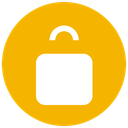
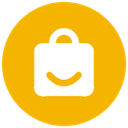
石之家：修发布页点位置闪退，筛选面板封高，发布按钮跟滑动收起，角标还原官方图形
点位置闪退
  SzjSheet 用了 fillMaxSize，而它被画在 LazyColumn 的 item 里——
  item 的高度是无界的，里面再要求填满屏幕直接抛 infinite constraint。
  职业选择层提到页面层（LazyColumn 和它同在一个 Box 里），
  SzjPublishSlotPicker 只上报"点了哪个位置"。

招募筛选面板
  高度封到 72%，选项区自己滚，重置/看结果钉在面板底部。
  原来面板从顶部无限往下长，副本那类条件最多（类型+副本+规模+位置+
  标签+大区），两个按钮被悬浮底栏盖住，点不到。

发布按钮
  跟悬浮底栏同一个信号源（SzjBarVisibility）：往下滑朝右下缩走并淡出，
  往上滑立刻回来，两者动作一致。

商城角标
  上一版我自己重画成了购物袋，形不对——官方是宽口购物篮 + 大提手弧。
  改成从 0.7.199 的原图抠出白色篮子、等比缩到圆内接正方形的 78%、
  重新居中贴回干净黄圆。图形还是官方那个，只是不再从下沿漏出去。

Changed region(s): [[0.25, 0.1875, 0.75, 0.8438], [0.3438, 0.5312, 0.6562, 0.6875]]

diff --git a/EorzeaPhoneAndroid/app/src/main/java/com/quserh/eorzeaphone/ui/ShizhijiaScreens.kt b/EorzeaPhoneAndroid/app/src/main/java/com/quserh/eorzeaphone/ui/ShizhijiaScreens.kt
@@ -1030,7 +1030,8 @@ private fun ShizhijiaHomeScreen(
                                 }
                             }
                         }
-                        MAIN_RECRUIT -> ShizhijiaRecruitTab(nav, loggedIn, recruitState, brandRow)
+                        // bar 传下去：发布按钮跟底栏一起收起/放出。
+                        MAIN_RECRUIT -> ShizhijiaRecruitTab(nav, loggedIn, recruitState, brandRow, bar)
                         MAIN_GLAMOUR -> ShizhijiaGlamourTab(nav, loggedIn, glamourState, brandRow)
                         else -> ShizhijiaMeTab(state, nav, loggedIn, loginUser, barHeightDp, barBottomDp, onBarHeightChange, onBarBottomChange, brandRow)
                     }
@@ -1973,6 +1974,8 @@ private fun ShizhijiaRecruitTab(
     loggedIn: Boolean,
     rs: SzjRecruitState,
     header: @Composable () -> Unit,
+    /** 底栏的显隐状态：发布按钮跟着它一起走。 */
+    bar: SzjBarVisibility,
 ) {
     val context = LocalContext.current
     val scope = rememberCoroutineScope()
@@ -2135,9 +2138,27 @@ private fun ShizhijiaRecruitTab(
         // 发布按钮：浮在右下、底栏之上。RP 和部队招募的发布表单没做，
         // 那两类不给入口（点了也发不出去）。
         if (kind != ShizhijiaRecruitKind.Rp && kind != ShizhijiaRecruitKind.Guild) {
+            // 往下滑收起、往上滑放出，和悬浮底栏同一个信号源，两者动作一致。
+            // 收起方向朝右下（它在右下角），比单纯淡出更像"滑走了"。
+            val motion = szjMotionEnabled()
+            val hide = bar.hidden
+            val p by animateFloatAsState(
+                if (hide) 1f else 0f,
+                if (motion) tween(if (hide) 260 else 190, easing = FastOutSlowInEasing)
+                else tween(0),
+                label = "szjFabHide",
+            )
             SzjPressable(
                 onClick = { nav(SzjRoute.PublishRecruit(kind)) },
-                modifier = Modifier.align(Alignment.BottomEnd).padding(end = 18.dp, bottom = 108.dp),
+                modifier = Modifier.align(Alignment.BottomEnd)
+                    .padding(end = 18.dp, bottom = 108.dp)
+                    .graphicsLayer {
+                        alpha = 1f - p
+                        translationX = p * 40f
+                        translationY = p * 24f
+                        scaleX = 1f - p * 0.2f
+                        scaleY = 1f - p * 0.2f
+                    },
                 shape = CircleShape,
             ) {
                 Row(
@@ -2218,24 +2239,28 @@ private fun SzjRecruitFilterPanel(
     // 面板是覆盖层：返回键先关它，别一路穿透到关掉石之家。
     BackHandler { onClose() }
 
-    Column(
+    Box(
         Modifier.fillMaxSize()
             .background(Color(0x73000000))
-            .pointerInput(Unit) { detectTapGestures { onClose() } }
+            .pointerInput(Unit) { detectTapGestures { onClose() } },
+        contentAlignment = Alignment.TopCenter,
     ) {
         androidx.compose.animation.AnimatedVisibility(
             visible = true,
             enter = slideInVertically(tween(260, easing = FastOutSlowInEasing)) { -it },
         ) {
+            // 高度封到 72%：条件多的时候（副本那类有类型+副本+规模+位置+标签+大区）
+            // 面板会一直长到屏幕外，"看结果"被悬浮底栏盖住点不到。
+            // 现在选项区自己滚，两个按钮钉在面板底部。
             Column(
-                Modifier.fillMaxWidth()
+                Modifier.fillMaxWidth().fillMaxHeight(0.72f)
                     .shadow(12.dp, RoundedCornerShape(bottomEnd = 18.dp, bottomStart = 18.dp), ambientColor = Color(0xFF0A1016), spotColor = Color(0xFF0A1016))
                     .clip(RoundedCornerShape(bottomEnd = 18.dp, bottomStart = 18.dp))
                     .background(SzjBg)
                     .clickable(interactionSource = noRipple, indication = null) { }
-                    .verticalScroll(rememberScrollState())
                     .padding(horizontal = 16.dp, vertical = 14.dp)
             ) {
+              Column(Modifier.weight(1f, fill = false).verticalScroll(rememberScrollState())) {
                 when (kind) {
                     ShizhijiaRecruitKind.Fb -> {
                         val types = rs.fbConfig.value.map { it.fbType }.distinct().filter { it.isNotBlank() }
@@ -2338,7 +2363,8 @@ private fun SzjRecruitFilterPanel(
                         selected = setOf(draft.targetAreaId),
                     ) { draft = draft.copy(targetAreaId = it) }
                 }
-                Spacer(Modifier.height(18.dp))
+              }
+                Spacer(Modifier.height(14.dp))
                 Row(Modifier.fillMaxWidth(), horizontalArrangement = Arrangement.spacedBy(10.dp)) {
                     SzjPressable(
                         onClick = { draft = ShizhijiaRecruitFilter() },
@@ -2718,6 +2744,8 @@ private fun ShizhijiaRecruitDetailScreen(
 private fun SzjPublishFbFields(
     form: ShizhijiaRecruitForm,
     rs: SzjRecruitState,
+    /** 点了位置槽：("" 或 "A"/"B"/"C" 的小队, 位置名)。选择层由页面层画。 */
+    onPickSlot: (String, String) -> Unit,
     onChange: (ShizhijiaRecruitForm) -> Unit,
 ) {
     val types = rs.fbConfig.value.map { it.fbType }.distinct().filter { it.isNotBlank() }
@@ -2755,6 +2783,7 @@ private fun SzjPublishFbFields(
             slots = form.slots,
             jobs = rs.jobs.value,
             onSet = { k, v -> onChange(form.copy(slots = form.slots + (k to v))) },
+            onPick = { k -> onPickSlot("", k) },
         )
     } else if (form.teamComposition == "团队") {
         // 24 人：三个小队各一组
@@ -2768,6 +2797,7 @@ private fun SzjPublishFbFields(
                     val cur = form.alliance[g].orEmpty()
                     onChange(form.copy(alliance = form.alliance + (g to (cur + (k to v)))))
                 },
+                onPick = { k -> onPickSlot(g, k) },
             )
         }
     }
@@ -2806,8 +2836,14 @@ private fun SzjPublishSlotPicker(
     slots: Map<String, String>,
     jobs: Map<String, ShizhijiaJob>,
     onSet: (String, String) -> Unit,
+    /**
+     * 请求打开职业选择层。选择层不能画在这里——这个 composable 在
+     * LazyColumn 的 item 里，item 的高度是无界的，里面再放 fillMaxSize
+     * 会直接抛 infinite constraint 崩掉（0.7.219 点位置闪退就是这个）。
+     * 所以由页面层统一画，这里只上报"点了哪个位置"。
+     */
+    onPick: (String) -> Unit,
 ) {
-    var picking by remember { mutableStateOf<String?>(null) }
     Column(Modifier.fillMaxWidth().padding(bottom = 14.dp)) {
         Row(verticalAlignment = Alignment.CenterVertically) {
             Text("我的位置", color = SzjText, style = SzjLabelStyle)
@@ -2820,7 +2856,7 @@ private fun SzjPublishSlotPicker(
                 val filled = jobId.isNotBlank() && jobId != "0"
                 val job = jobs[jobId]
                 SzjPressable(
-                    onClick = { if (filled) onSet(k, "0") else picking = k },
+                    onClick = { if (filled) onSet(k, "0") else onPick(k) },
                     modifier = Modifier.weight(1f),
                     shape = RoundedCornerShape(6.dp),
                 ) {
@@ -2844,43 +2880,52 @@ private fun SzjPublishSlotPicker(
             }
         }
     }
-    // 职业选择：按职能分组列出具体职业
-    val slot = picking
-    if (slot != null) {
-        val byRole = jobs.values.filter { it.type != "职能分类" }.groupBy { it.type }
-        SzjSheet(title = "$slot 位置的职业", onClose = { picking = null }) {
-            byRole.forEach { (role, list) ->
-                Text(role, color = SzjAccent, style = SzjLabelStyle, modifier = Modifier.padding(top = 6.dp, bottom = 6.dp))
-                Column(verticalArrangement = Arrangement.spacedBy(6.dp)) {
-                    list.sortedBy { it.id.toIntOrNull() ?: 0 }.chunked(4).forEach { row ->
-                        Row(Modifier.fillMaxWidth(), horizontalArrangement = Arrangement.spacedBy(6.dp)) {
-                            row.forEach { j ->
-                                SzjPressable(
-                                    onClick = { onSet(slot, j.id); picking = null },
-                                    modifier = Modifier.weight(1f),
-                                    shape = SzjChipShape,
+}
+
+/**
+ * 职业选择层。必须画在页面层（不能在 LazyColumn 的 item 里），
+ * 见 SzjPublishSlotPicker.onPick 的注释。
+ */
+@Composable
+private fun SzjJobPickerSheet(
+    slotName: String,
+    jobs: Map<String, ShizhijiaJob>,
+    onClose: () -> Unit,
+    onPicked: (String) -> Unit,
+) {
+    val byRole = jobs.values.filter { it.type != "职能分类" }.groupBy { it.type }
+    SzjSheet(title = "$slotName 位置的职业", onClose = onClose) {
+        byRole.forEach { (role, list) ->
+            Text(role, color = SzjAccent, style = SzjLabelStyle, modifier = Modifier.padding(top = 6.dp, bottom = 6.dp))
+            Column(verticalArrangement = Arrangement.spacedBy(6.dp)) {
+                list.sortedBy { it.id.toIntOrNull() ?: 0 }.chunked(4).forEach { row ->
+                    Row(Modifier.fillMaxWidth(), horizontalArrangement = Arrangement.spacedBy(6.dp)) {
+                        row.forEach { j ->
+                            SzjPressable(
+                                onClick = { onPicked(j.id) },
+                                modifier = Modifier.weight(1f),
+                                shape = SzjChipShape,
+                            ) {
+                                Column(
+                                    Modifier.fillMaxWidth().clip(SzjChipShape).background(SzjCardRaised)
+                                        .padding(vertical = 8.dp),
+                                    horizontalAlignment = Alignment.CenterHorizontally,
                                 ) {
-                                    Column(
-                                        Modifier.fillMaxWidth().clip(SzjChipShape).background(SzjCardRaised)
-                                            .padding(vertical = 8.dp),
-                                        horizontalAlignment = Alignment.CenterHorizontally,
-                                    ) {
-                                        if (j.iconUrl.isNotBlank()) {
-                                            ShizhijiaRemoteImage(
-                                                url = j.iconUrl,
-                                                modifier = Modifier.size(26.dp),
-                                                contentScale = ContentScale.Fit,
-                                                showPlaceholder = false,
-                                            )
-                                            Spacer(Modifier.height(4.dp))
-                                        }
-                                        Text(j.name, color = SzjText, fontSize = 10.sp, maxLines = 1,
-                                            overflow = TextOverflow.Ellipsis, textAlign = TextAlign.Center)
+                                    if (j.iconUrl.isNotBlank()) {
+                                        ShizhijiaRemoteImage(
+                                            url = j.iconUrl,
+                                            modifier = Modifier.size(26.dp),
+                                            contentScale = ContentScale.Fit,
+                                            showPlaceholder = false,
+                                        )
+                                        Spacer(Modifier.height(4.dp))
                                     }
+                                    Text(j.name, color = SzjText, fontSize = 10.sp, maxLines = 1,
+                                        overflow = TextOverflow.Ellipsis, textAlign = TextAlign.Center)
                                 }
                             }
-                            repeat(4 - row.size) { Spacer(Modifier.weight(1f)) }
                         }
+                        repeat(4 - row.size) { Spacer(Modifier.weight(1f)) }
                     }
                 }
             }
@@ -2989,6 +3034,8 @@ private fun ShizhijiaPublishRecruitScreen(
     var form by remember(kind) { mutableStateOf(ShizhijiaRecruitForm()) }
     var submitting by remember { mutableStateOf(false) }
     var error by remember { mutableStateOf("") }
+    // 正在给哪个位置选职业：(小队, 位置名)。小队为 "" 表示非团队。
+    var picking by remember { mutableStateOf<Pair<String, String>?>(null) }
     // 发布要登录：先确认，没登录就直接引导，别等填完一屏才报错。
     var loggedIn by remember { mutableStateOf<Boolean?>(null) }
     LaunchedEffect(Unit) {
@@ -3066,6 +3113,8 @@ private fun ShizhijiaPublishRecruitScreen(
             }
             return@ScreenFrame
         }
+        // 职业选择层要盖在整页上，所以列表和它同在一个 Box 里。
+        Box(Modifier.fillMaxSize()) {
         LazyColumn(
             Modifier.fillMaxSize(),
             contentPadding = androidx.compose.foundation.layout.PaddingValues(
@@ -3075,7 +3124,10 @@ private fun ShizhijiaPublishRecruitScreen(
             item(key = "fields") {
                 Column {
                     when (kind) {
-                        ShizhijiaRecruitKind.Fb -> SzjPublishFbFields(form, rs) { form = it }
+                        ShizhijiaRecruitKind.Fb -> SzjPublishFbFields(
+                            form, rs,
+                            onPickSlot = { g, k -> picking = g to k },
+                        ) { form = it }
                         ShizhijiaRecruitKind.Novice -> SzjPublishNoviceFields(form, rs) { form = it }
                         else -> SzjPublishOtherFields(form, rs) { form = it }
                     }
@@ -3137,6 +3189,23 @@ private fun ShizhijiaPublishRecruitScreen(
                     )
                 }
             }
+        }
+        picking?.let { (group, slot) ->
+            SzjJobPickerSheet(
+                slotName = slot,
+                jobs = rs.jobs.value,
+                onClose = { picking = null },
+                onPicked = { jobId ->
+                    form = if (group.isBlank()) {
+                        form.copy(slots = form.slots + (slot to jobId))
+                    } else {
+                        val cur = form.alliance[group].orEmpty()
+                        form.copy(alliance = form.alliance + (group to (cur + (slot to jobId))))
+                    }
+                    picking = null
+                },
+            )
+        }
         }
     }
 }
